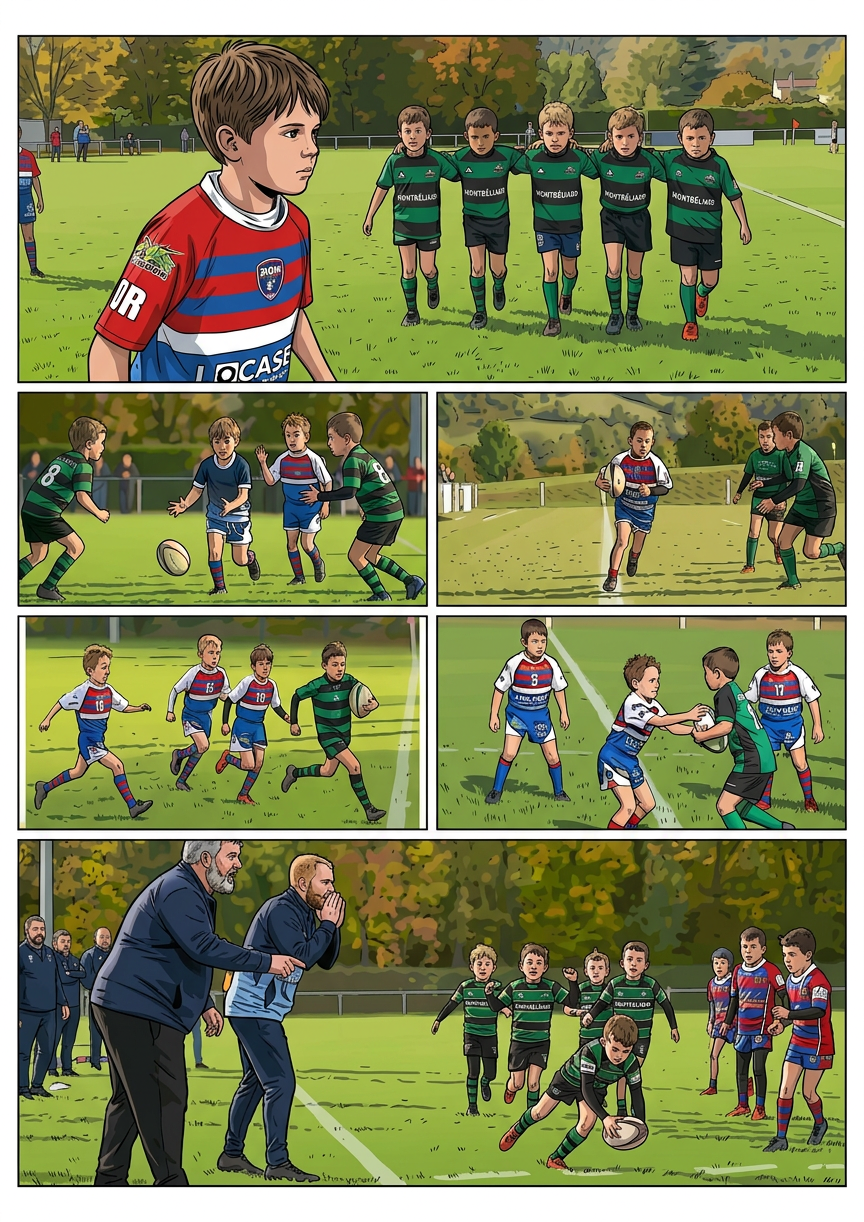
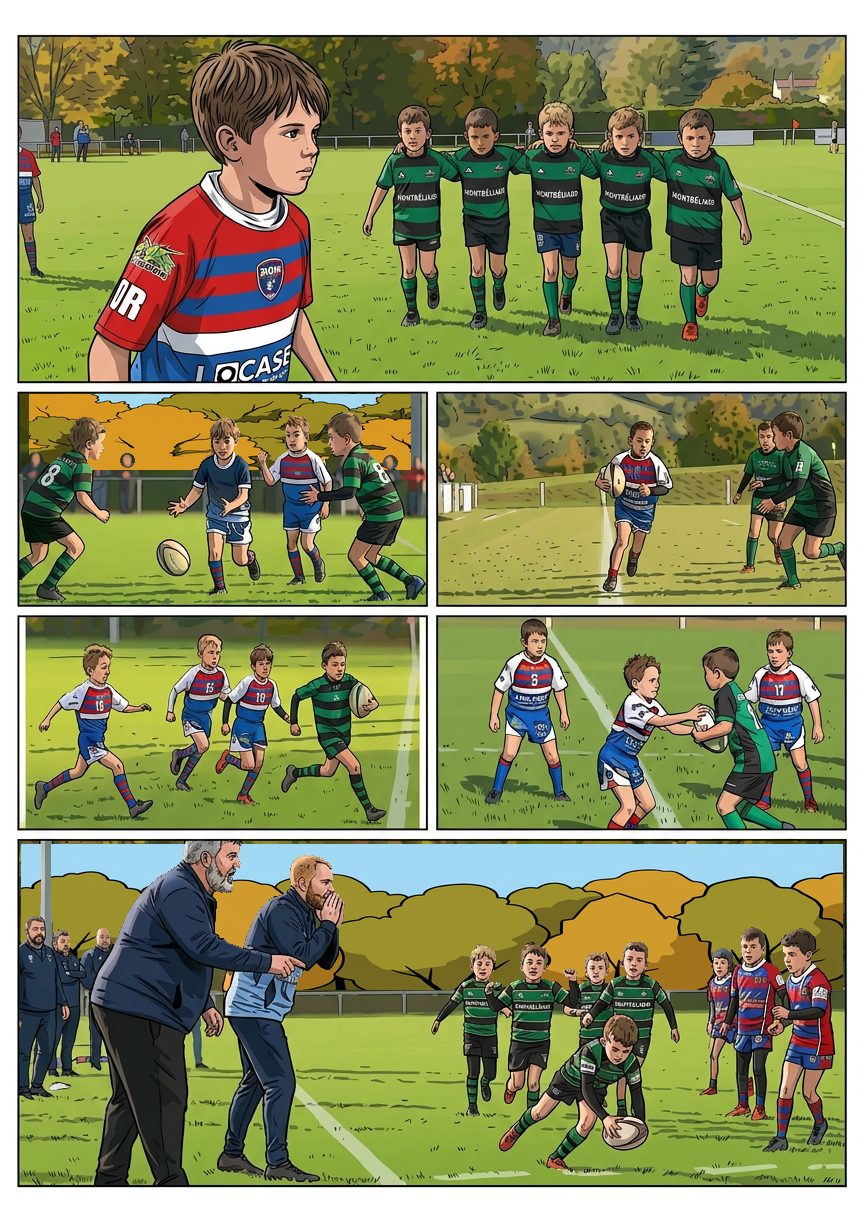
Repair page 07 foliage with protected character masks and pixel invariance tests

Changed region(s): [[0.25, 0.6841, 1.0, 0.8085], [0.0312, 0.311, 0.5, 0.4043], [0.0, 0.6841, 0.2188, 0.7774]]

diff --git a/outils/retouche/verifier_planche07.py b/outils/retouche/verifier_planche07.py
@@ -1,0 +1,46 @@
+#!/usr/bin/env python3
+"""Vérifie les invariants des retouches masquées de la planche 07.
+
+Dépendance : Pillow. À lancer depuis n'importe quel répertoire du dépôt.
+Compare les pixels décodés, pas les octets PNG (la compression peut changer).
+Ne démontre pas à lui seul la qualité graphique ni l'exactitude du détourage.
+"""
+from io import BytesIO
+import json
+from pathlib import Path
+import subprocess
+
+from PIL import Image, ImageChops
+
+ROOT = Path(__file__).resolve().parents[2]
+REPORT = ROOT / 'Planches-dessin/validation/corrections-vignettes/controle-passe-3.json'
+
+
+def main():
+    report = json.loads(REPORT.read_text())
+    data = subprocess.check_output(
+        ['git', 'show', f"{report['commit_avant']}:{report['fichier']}"], cwd=ROOT
+    )
+    before = Image.open(BytesIO(data)).convert('RGB')
+    after = Image.open(ROOT / report['fichier']).convert('RGB')
+    assert before.size == after.size, 'Dimensions modifiées'
+    outside = ImageChops.difference(before, after)
+    for item in report['controles']:
+        box = tuple(item['rectangle'])
+        old = before.crop(box)
+        new = after.crop(box)
+        mask = Image.open(ROOT / item['masque']).convert('L')
+        assert mask.size == old.size
+        protected_diff = Image.composite(
+            ImageChops.difference(old, new), Image.new('RGB', old.size), mask
+        )
+        assert protected_diff.getbbox() is None, f"Pixels protégés modifiés : {item['vignette']}"
+        assert ImageChops.difference(old, new).getbbox() is not None, 'Aucune retouche'
+        outside.paste((0, 0, 0), box)
+        print(f"OK {item['vignette']} : pixels protégés identiques")
+    assert outside.getbbox() is None, 'Pixels modifiés hors des cases autorisées'
+    print('OK : dimensions et pixels hors cases inchangés')
+
+
+if __name__ == '__main__':
+    main()

diff --git a/Planches-dessin/SUIVI-STYLE.md b/Planches-dessin/SUIVI-STYLE.md
@@ -75,3 +75,26 @@ Comparaison visuelle des originaux et des sorties courantes 00–10, y compris l
 ### Rejets et points encore ouverts
 
 Deux essais de simplification des fonds de 07 (vignettes 2 et 6) ont été écartés : des expressions/détails de premier plan ont dérivé. Le fichier 07 n'a pas été remplacé. Préférer une correction avec masque limité aux fonds pour ne pas toucher aux visages. Ne pas déclarer toute la série parfaitement homogène : il reste des nuances de traitement, et les petits logos/lettrages générés ne sont pas fiabilisés. La planche 01 validée par l'utilisateur reste inchangée malgré son écart d'expression déjà signalé avant validation. Les pages 11–30 restent suspendues.
+
+## Troisième passe — fonds de 07 corrigés par masques
+
+Cette section remplace le statut « fonds de 07 en attente » pour les feuillages des vignettes 2 et 6.
+
+- **07, vignette 2** : feuillage supérieur remplacé par un fond dessiné en aplats et contours encrés. Les quatre joueurs et le ballon proviennent du fichier précédent, pas d'une nouvelle génération des personnages.
+- **07, vignette 6** : feuillage supérieur remplacé de la même manière ; coachs, joueurs, ballon et figurants conservés par détourage et masques.
+- Le terrain, les marquages et la clôture restent inchangés. Les petits spectateurs lointains de la vignette 2 sont conservés, y compris leur rendu moins net ; leur flou résiduel n'est donc pas annoncé comme corrigé.
+- Les deux premières plaques de fond et les premiers détourages ont été écartés après inspection (raccords trop visibles). Seuls les composites finaux sont intégrés.
+
+### Contrôles reproductibles
+
+Les masques blancs de conservation sont enregistrés dans `outils/retouche/masques/`. Les zones protégées réutilisent les pixels de la version précédente, pour ne pas échanger les identités, cheveux, couleurs de peau, tenues ou expressions.
+
+`PYTHONPATH=.arena/vendor python outils/retouche/verifier_planche07.py` dans l'environnement de cette session (ou `python outils/retouche/verifier_planche07.py` avec Pillow installé) vérifie :
+
+1. les dimensions inchangées ;
+2. la différence nulle sur tous les pixels protégés ;
+3. la différence nulle en dehors des deux vignettes autorisées.
+
+Référence de comparaison : commit `0106661`. Rapport : `validation/corrections-vignettes/controle-passe-3.json`.
+
+Ce test ne certifie ni une découpe sémantique parfaite des silhouettes ni une homogénéité absolue de tous les détails. Les petits logos et textes, certains figurants lointains et les écarts de modelé restent à examiner au besoin. Aucune page 11–30 n'a été traitée pendant cette passe.
